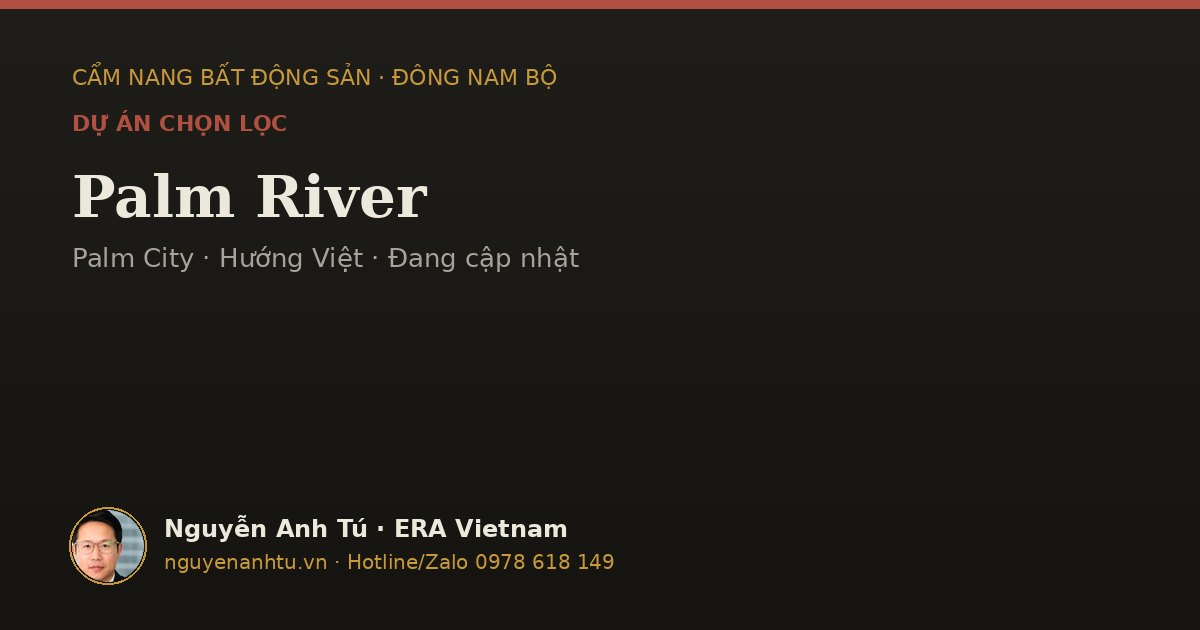
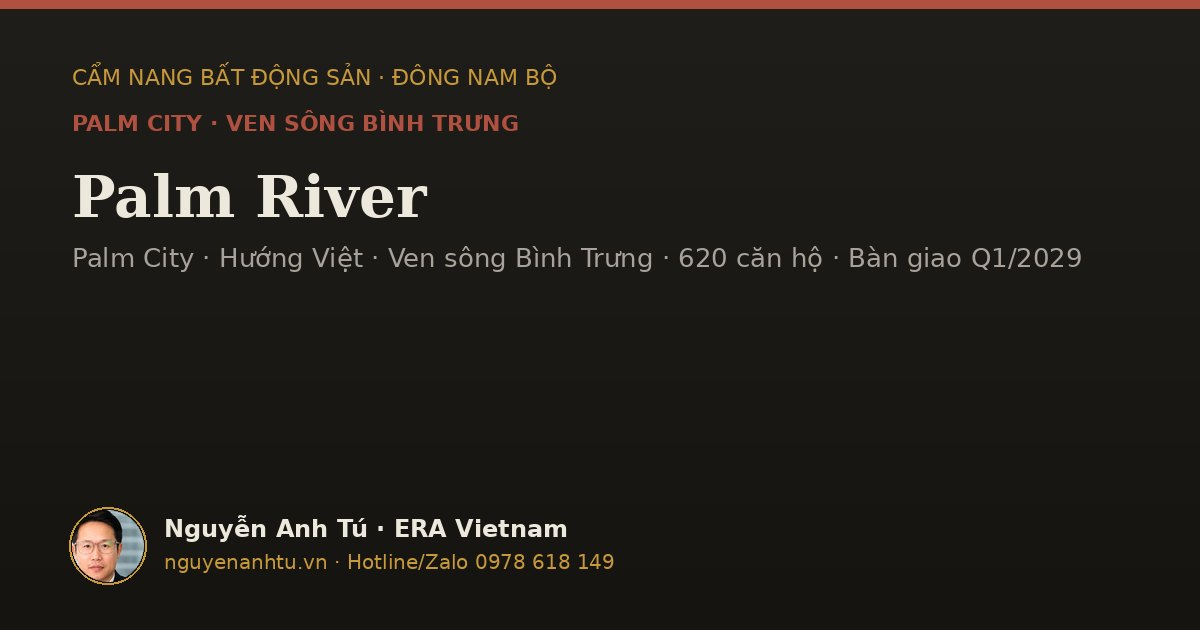
up

Changed region(s): [[0.3083, 0.3921, 0.925, 0.4222], [0.0617, 0.181, 0.4317, 0.2111]]

diff --git a/content/articles/palm-river.html b/content/articles/palm-river.html
@@ -1,1 +1,158 @@
-<h1 class='p-h1'>🌴 Palm River<br><em style='font-size:.52em;color:#b05040;font-style:italic;font-weight:500'>— Palm City · Hướng Việt · Đang cập nhật</em></h1><div class='p-call' style='margin-top:32px'><div class='p-call-lbl'>🔄 Nội dung đang được cập nhật</div><p>Phân tích chi tiết về <strong>Palm River</strong> đang được biên soạn và sẽ có trong phiên bản tiếp theo.</p><p style='margin-top:12px'>Liên hệ để được tư vấn trực tiếp về dự án này:<br><strong style='color:#b05040'>0978 618 149</strong> — Nguyễn Anh Tú · ERA Vietnam</p></div>
+<h1 class="p-h1">Palm River<br><em style="font-size:.52em;color:#b05040;font-style:italic;font-weight:500">— Phân khu căn hộ ven sông đầu tiên của giai đoạn phát triển mới Palm City</em></h1>
+
+<p class="p-lead">Palm River là phân khu căn hộ ven sông của <strong style="color:#e8d9c4">Palm City</strong> do Hướng Việt Properties phát triển tại phường Bình Trưng, TP.HCM: <strong style="color:#e8d9c4">4 tháp 36 tầng</strong> trên khu đất khoảng 1,89 ha, khởi công ngày 16/6/2026 và dự kiến bàn giao quý 1/2029.</p>
+
+<!-- ═════ 1. TỔNG QUAN ═════ -->
+<div style="display:flex;align-items:center;gap:10px;margin:34px 0 6px"><span style="font-family:'Cormorant Garamond',serif;font-size:34px;font-weight:700;color:rgba(176,80,64,.55);line-height:1">01</span><span style="font-size:9.5px;text-transform:uppercase;letter-spacing:2.2px;color:var(--muted);font-weight:600">Tổng quan dự án</span></div>
+
+<p class="p-h2">📍 Vị Trí</p>
+<p class="p-p">Palm River thuộc <strong>khu đô thị Nam Rạch Chiếc (Palm City)</strong>, phường Bình Trưng, TP.HCM (khu vực Quận 2 cũ). Khu đô thị nằm bên <strong>sông Giồng Ông Tố</strong>, có mặt tiền đường Song Hành của cao tốc TP.HCM – Long Thành – Dầu Giây và liền kề trục An Phú – Thủ Thiêm; riêng Palm River giáp sông ba mặt. Theo tài liệu chủ đầu tư, nhà ga Bình Trưng của tuyến metro Thủ Thiêm – Long Thành nằm ngay trước dự án.</p>
+<p class="p-p" style="margin:14px 0 0"><strong>Thời gian di chuyển</strong></p>
+<ul class="p-travel">
+  <li><span>Ga Bình Trưng (tuyến Thủ Thiêm – Long Thành)<small>Tuyến dự kiến hoàn thành năm 2030 theo tài liệu chủ đầu tư</small></span><b>Ngay trước dự án</b></li>
+  <li><span>Ga Metro Thủ Thiêm<small>Theo tài liệu chủ đầu tư</small></span><b>~5 phút</b></li>
+  <li><span>Nút giao An Phú · cao tốc TP.HCM – Long Thành – Dầu Giây<small>Theo tài liệu chủ đầu tư</small></span><b>~3 phút</b></li>
+  <li><span>Thủ Thiêm<small>Theo tài liệu chủ đầu tư</small></span><b>~10 phút</b></li>
+  <li><span>Trung tâm Quận 1 (cũ) · cầu Cát Lái<small>Theo tài liệu chủ đầu tư</small></span><b>~12 phút</b></li>
+  <li><span>Sân bay Long Thành<small>Theo tài liệu chủ đầu tư</small></span><b>~30 phút</b></li>
+  <li><span>Trường Quốc tế Mỹ TAS<small>Theo tài liệu chủ đầu tư</small></span><b>~3 phút</b></li>
+  <li><span>Trường AIS, VAS<small>Theo tài liệu chủ đầu tư</small></span><b>7–10 phút</b></li>
+  <li><span>Khu thể thao Rạch Chiếc<small>Theo tài liệu chủ đầu tư</small></span><b>~5 phút</b></li>
+</ul>
+<p style="font-size:11px;color:var(--muted);font-style:italic;margin:-4px 0 10px">Thời gian di chuyển mang tính tham khảo, theo bản đồ kết nối trong tài liệu chủ đầu tư.</p>
+
+<p class="p-h2">📐 Quy Mô</p>
+<div style="overflow-x:auto;margin:14px 0;border:1px solid var(--border-2);border-radius:9px">
+<table style="width:100%;border-collapse:collapse;font-size:12.5px;min-width:420px">
+  <tr style="background:rgba(176,80,64,.08)"><td style="padding:10px 14px;color:var(--muted);width:42%;border-bottom:1px solid var(--border-2)">Tên theo hồ sơ</td><td style="padding:10px 14px;color:var(--text);border-bottom:1px solid var(--border-2)">Khu nhà ở chung cư cao tầng kết hợp thương mại – dịch vụ 3 (CC3), thuộc Dự án Khu Trung tâm Nam Rạch Chiếc</td></tr>
+  <tr><td style="padding:10px 14px;color:var(--muted);border-bottom:1px solid var(--border-2)">Diện tích khu đất</td><td style="padding:10px 14px;color:var(--text);border-bottom:1px solid var(--border-2)"><strong>Khoảng 1,89 ha</strong></td></tr>
+  <tr style="background:rgba(255,255,255,.02)"><td style="padding:10px 14px;color:var(--muted);border-bottom:1px solid var(--border-2)">Loại hình phát triển</td><td style="padding:10px 14px;color:var(--text);border-bottom:1px solid var(--border-2)">Căn hộ · shophouse khối đế · officetel</td></tr>
+  <tr><td style="padding:10px 14px;color:var(--muted);border-bottom:1px solid var(--border-2)">Mật độ xây dựng</td><td style="padding:10px 14px;color:var(--text);border-bottom:1px solid var(--border-2)">39,5%</td></tr>
+  <tr style="background:rgba(255,255,255,.02)"><td style="padding:10px 14px;color:var(--muted);border-bottom:1px solid var(--border-2)">Hệ số sử dụng đất (FAR)</td><td style="padding:10px 14px;color:var(--text);border-bottom:1px solid var(--border-2)">Đang cập nhật</td></tr>
+  <tr><td style="padding:10px 14px;color:var(--muted);border-bottom:1px solid var(--border-2)">Số tháp · chiều cao</td><td style="padding:10px 14px;color:var(--text);border-bottom:1px solid var(--border-2)"><strong>4 tháp (T1–T4)</strong> · 36 tầng nổi, 2 tầng hầm · cao 149,45 m</td></tr>
+  <tr style="background:rgba(255,255,255,.02)"><td style="padding:10px 14px;color:var(--muted);border-bottom:1px solid var(--border-2)">Số lượng sản phẩm</td><td style="padding:10px 14px;color:var(--text);border-bottom:1px solid var(--border-2)"><strong>620 căn hộ</strong> · 13 shophouse khối đế · 71 officetel</td></tr>
+  <tr><td style="padding:10px 14px;color:var(--muted);border-bottom:1px solid var(--border-2)">Số căn/sàn</td><td style="padding:10px 14px;color:var(--text);border-bottom:1px solid var(--border-2)">Tháp T1: 4 căn · tháp T2, T3, T4: 6 căn</td></tr>
+  <tr style="background:rgba(255,255,255,.02)"><td style="padding:10px 14px;color:var(--muted);border-bottom:1px solid var(--border-2)">Cơ cấu căn hộ</td><td style="padding:10px 14px;color:var(--text);border-bottom:1px solid var(--border-2)">Studio · 1PN · 2PN · 3PN · Duplex · Penthouse</td></tr>
+  <tr><td style="padding:10px 14px;color:var(--muted);border-bottom:1px solid var(--border-2)">Bãi đỗ xe</td><td style="padding:10px 14px;color:var(--text);border-bottom:1px solid var(--border-2)">2 tầng hầm: 633 chỗ ô tô, 1.240 chỗ xe máy · mỗi căn hộ có 1 chỗ ô tô</td></tr>
+  <tr style="background:rgba(255,255,255,.02)"><td style="padding:10px 14px;color:var(--muted)">Hình thức sở hữu</td><td style="padding:10px 14px;color:var(--text)">Sở hữu lâu dài (áp dụng cho khách hàng quốc tịch Việt Nam)</td></tr>
+</table>
+</div>
+<p style="font-size:11px;color:var(--muted);font-style:italic;margin:-4px 0 10px">Thông số theo tài liệu dự án cập nhật tháng 9/2026, đối chiếu thông cáo báo chí của Hướng Việt Properties (13/8/2026) về diện tích, số tháp, số tầng và mật độ.</p>
+
+<p class="p-h2">🏢 Nhà Phát Triển</p>
+<div class="p-grid">
+  <div class="p-card"><strong>Chủ đầu tư</strong><p>Công ty TNHH Nam Rạch Chiếc</p></div>
+  <div class="p-card"><strong>Nhà phát triển</strong><p>Hướng Việt Properties (thuộc Hướng Việt Holdings)</p></div>
+  <div class="p-card"><strong>Thiết kế · Tư vấn</strong><p>Kiến trúc DPA (Singapore) · Cảnh quan LJ-Group · Nội thất Dark Horse · Thiết kế theo tiêu chuẩn công trình xanh EDGE</p></div>
+  <div class="p-card"><strong>Tổng thầu</strong><p>Đang cập nhật</p></div>
+  <div class="p-card"><strong>Website chủ đầu tư</strong><p>Đang cập nhật</p></div>
+</div>
+
+<p class="p-h2">🗓 Giai Đoạn Triển Khai</p>
+<div class="p-tl">
+  <div class="p-tl-row"><div class="p-tl-dot">✓</div><div><div class="p-tl-yr">16/6/2026</div><div class="p-tl-ti">Khởi công</div><div class="p-tl-ds">Lễ khởi động phân khu Palm River, mở đầu giai đoạn phát triển mới của Palm City.</div></div></div>
+  <div class="p-tl-row"><div class="p-tl-dot">1</div><div><div class="p-tl-yr">Năm 2026</div><div class="p-tl-ti">Ra mắt thị trường</div><div class="p-tl-ds">Theo báo chí, dự kiến đưa ra thị trường trong năm 2026. Chính sách bán hàng đang cập nhật.</div></div></div>
+  <div class="p-tl-row"><div class="p-tl-dot">⌂</div><div><div class="p-tl-yr">Quý 1/2029</div><div class="p-tl-ti">Bàn giao dự kiến</div><div class="p-tl-ds">Theo tài liệu dự án và thông cáo của Hướng Việt Properties.</div></div></div>
+</div>
+
+<!-- ═════ 2. CHI TIẾT ═════ -->
+<div style="display:flex;align-items:center;gap:10px;margin:40px 0 6px"><span style="font-family:'Cormorant Garamond',serif;font-size:34px;font-weight:700;color:rgba(176,80,64,.55);line-height:1">02</span><span style="font-size:9.5px;text-transform:uppercase;letter-spacing:2.2px;color:var(--muted);font-weight:600">Chi tiết dự án</span></div>
+
+<p class="p-h2">🎁 Giá Bán &amp; Chính Sách</p>
+<div class="p-call"><div class="p-call-lbl">🔄 Nội dung đang được cập nhật</div><p>Giá bán, chính sách thanh toán và ưu đãi: tài liệu hiện có chưa công bố. Để nhận bảng tính dòng tiền và rổ hàng mới nhất, liên hệ <strong style="color:#b05040">0978 618 149</strong> — Nguyễn Anh Tú · ERA Vietnam.</p></div>
+
+<p class="p-h2">🏠 Loại Hình Sản Phẩm</p>
+<p class="p-p">Từ Studio đến Penthouse, kèm 13 shophouse khối đế và 71 officetel. Studio có căn từ 34,86 m²; Duplex có <strong>42 căn</strong> và Penthouse có <strong>8 căn</strong>, diện tích đến hơn 300 m².</p>
+<div style="overflow-x:auto;margin:14px 0;border:1px solid var(--border-2);border-radius:9px">
+<table style="width:100%;border-collapse:collapse;font-size:12.5px;min-width:420px;text-align:left">
+  <tr style="background:rgba(176,80,64,.12)"><th style="padding:10px 14px;font-size:9.5px;text-transform:uppercase;letter-spacing:1.4px;color:#d08470;font-weight:700">Loại hình</th><th style="padding:10px 14px;font-size:9.5px;text-transform:uppercase;letter-spacing:1.4px;color:#d08470;font-weight:700">Tim tường GSA (m²)</th><th style="padding:10px 14px;font-size:9.5px;text-transform:uppercase;letter-spacing:1.4px;color:#d08470;font-weight:700">Thông thủy NSA (m²)</th></tr>
+  <tr><td style="padding:9px 14px;color:var(--text);border-top:1px solid var(--border-2)">Studio</td><td style="padding:9px 14px;color:var(--text-2);border-top:1px solid var(--border-2)">41,3 (điển hình)</td><td style="padding:9px 14px;color:var(--text-2);border-top:1px solid var(--border-2)">37,3 (điển hình)</td></tr>
+  <tr style="background:rgba(255,255,255,.02)"><td style="padding:9px 14px;color:var(--text);border-top:1px solid var(--border-2)">1PN</td><td style="padding:9px 14px;color:var(--text-2);border-top:1px solid var(--border-2)">65,9</td><td style="padding:9px 14px;color:var(--text-2);border-top:1px solid var(--border-2)">60,2</td></tr>
+  <tr><td style="padding:9px 14px;color:var(--text);border-top:1px solid var(--border-2)">2PN góc</td><td style="padding:9px 14px;color:var(--text-2);border-top:1px solid var(--border-2)">84,9</td><td style="padding:9px 14px;color:var(--text-2);border-top:1px solid var(--border-2)">76,3</td></tr>
+  <tr style="background:rgba(255,255,255,.02)"><td style="padding:9px 14px;color:var(--text);border-top:1px solid var(--border-2)">2PN thường</td><td style="padding:9px 14px;color:var(--text-2);border-top:1px solid var(--border-2)">85,9</td><td style="padding:9px 14px;color:var(--text-2);border-top:1px solid var(--border-2)">76,6 – 77,3</td></tr>
+  <tr><td style="padding:9px 14px;color:var(--text);border-top:1px solid var(--border-2)">2PN đặc biệt</td><td style="padding:9px 14px;color:var(--text-2);border-top:1px solid var(--border-2)">120,2 – 121,9</td><td style="padding:9px 14px;color:var(--text-2);border-top:1px solid var(--border-2)">110,6 – 111,3</td></tr>
+  <tr style="background:rgba(255,255,255,.02)"><td style="padding:9px 14px;color:var(--text);border-top:1px solid var(--border-2)">3PN góc</td><td style="padding:9px 14px;color:var(--text-2);border-top:1px solid var(--border-2)">125,3</td><td style="padding:9px 14px;color:var(--text-2);border-top:1px solid var(--border-2)">115,3 – 116</td></tr>
+  <tr><td style="padding:9px 14px;color:var(--text);border-top:1px solid var(--border-2)">3PN thường</td><td style="padding:9px 14px;color:var(--text-2);border-top:1px solid var(--border-2)">126,1</td><td style="padding:9px 14px;color:var(--text-2);border-top:1px solid var(--border-2)">115,5 – 116,2</td></tr>
+  <tr style="background:rgba(255,255,255,.02)"><td style="padding:9px 14px;color:var(--text);border-top:1px solid var(--border-2)">3PN đặc biệt</td><td style="padding:9px 14px;color:var(--text-2);border-top:1px solid var(--border-2)">157</td><td style="padding:9px 14px;color:var(--text-2);border-top:1px solid var(--border-2)">143,7 – 144,8</td></tr>
+  <tr><td style="padding:9px 14px;color:var(--text);border-top:1px solid var(--border-2)">Duplex · Penthouse</td><td style="padding:9px 14px;color:var(--text-2);border-top:1px solid var(--border-2)">Đến hơn 300</td><td style="padding:9px 14px;color:var(--text-2);border-top:1px solid var(--border-2)">Đang cập nhật</td></tr>
+</table>
+</div>
+<p style="font-size:11px;color:var(--muted);font-style:italic;margin:-4px 0 10px">Diện tích tim tường (GSA) và thông thủy (NSA) theo mặt bằng chủ đầu tư công bố, mang tính tham khảo. Số căn Duplex, Penthouse theo bảng Hỏi – Đáp của chủ đầu tư.</p>
+
+<p class="p-h2">🎨 Phối Cảnh — Bốn Tháp Bên Sông Giồng Ông Tố</p>
+<p class="p-p">Bốn tháp bố trí dọc sông Giồng Ông Tố, giáp sông ba mặt. Theo phối cảnh của chủ đầu tư, mặt đứng các tháp <strong>uốn theo dòng chảy</strong>, có cầu nối trên cao và hàng cọ; chân tháp mở ra công viên ven sông và bến thuyền. Thông cáo báo chí mô tả ý tưởng kiến trúc lấy cảm hứng từ lá cọ và dòng nước, sắp xếp tháp để tối ưu tầm nhìn sông, ánh sáng và thông gió tự nhiên.</p>
+<p style="font-size:11px;color:var(--muted);font-style:italic;margin:-4px 0 10px">Hình ảnh phối cảnh của chủ đầu tư mang tính minh họa, có thể điều chỉnh.</p>
+
+<p class="p-h2">🌿 Tiện Ích Nội Khu — 68 Tiện Ích Trên Ba Tầng</p>
+<p class="p-p">Theo brochure chủ đầu tư, hệ tiện ích trải trên <strong>tầng 1</strong> (20 tiện ích ngoài trời, 9 trong nhà), <strong>tầng 2</strong> (7 tiện ích) và <strong>tầng 20</strong> (32 tiện ích). Cư dân của cả bốn tháp đều được sử dụng. Dự án có nhà trẻ 1.404,52 m².</p>
+<div class="p-grid">
+  <div class="p-card"><strong>🏊 Hồ bơi &amp; trị liệu</strong><p>Hồ bơi dài 70 m (tầng 1), hồ bơi trẻ em, hồ bơi vô cực, Sky Onsen tắm khoáng kiểu Nhật (tầng 20), hồ trị liệu nóng – lạnh, bể sục Jacuzzi, Private Spa, phòng massage trị liệu.</p></div>
+  <div class="p-card"><strong>💪 Thể thao &amp; sức khỏe</strong><p>Sky Yoga Deck, Sky Gym &amp; Pilates, sàn tập yoga, sân pickleball, phòng golf mô phỏng (tầng 20, cạnh Sky Gym).</p></div>
+  <div class="p-card"><strong>👨👩👧 Gia đình &amp; cộng đồng</strong><p>Kids Club, sân chơi trẻ em, sân chơi thú cưng, nhà trẻ, clubhouse, phòng chiếu phim cư dân (tầng 1), khán đài.</p></div>
+  <div class="p-card"><strong>🧘 Thư giãn &amp; cảnh quan</strong><p>Lounge vườn thác nước, lounge sân trũng, lounge mặt nước, chòi nướng BBQ, bungalow thư giãn ngoài trời, đài ngắm cảnh, tiểu cảnh nước, đường dạo ven sông, phố thương mại.</p></div>
+</div>
+<p style="font-size:11px;color:var(--muted);font-style:italic;margin:-4px 0 10px">Danh mục theo brochure chủ đầu tư, mang tính minh họa. Danh mục chi tiết theo từng tầng đang cập nhật.</p>
+
+<p class="p-h2">🌐 Hệ Sinh Thái Ngoại Khu &amp; Vùng Chức Năng</p>
+<div class="p-call" style="background:rgba(176,80,64,.06);border-color:rgba(176,80,64,.25)"><div class="p-call-lbl" style="color:#d08470">Palm River nằm trong khu đô thị Palm City</div><p>Palm City rộng khoảng 30,6 ha, quy hoạch nhà ở, thương mại – dịch vụ, trường quốc tế, bệnh viện quốc tế và tiện ích cộng đồng, với công viên ven sông gần 3 km. Palm Residence, Palm Height, hệ thống trường quốc tế và công viên ven sông đã đi vào vận hành. Thông cáo của chủ đầu tư nêu toàn Palm City có hơn 100 tiện ích mà cư dân Palm River cùng sử dụng.</p></div>
+
+<!-- ═════ 3. VÌ SAO TÔI CHỌN ═════ -->
+<div style="display:flex;align-items:center;gap:10px;margin:40px 0 6px"><span style="font-family:'Cormorant Garamond',serif;font-size:34px;font-weight:700;color:rgba(176,80,64,.55);line-height:1">03</span><span style="font-size:9.5px;text-transform:uppercase;letter-spacing:2.2px;color:var(--muted);font-weight:600">Góc nhìn nhà tư vấn</span></div>
+<p class="p-h2">💬 Vì Sao Tôi Chọn Palm River?</p>
+<div class="p-call"><div class="p-call-lbl">🔄 Nội dung đang được cập nhật</div><p>Góc nhìn dành cho cư dân và nhà đầu tư sẽ được bổ sung.</p></div>
+
+<!-- ═════ 4. SWOT + ĐIỂM ═════ -->
+<div style="display:flex;align-items:center;gap:10px;margin:40px 0 6px"><span style="font-family:'Cormorant Garamond',serif;font-size:34px;font-weight:700;color:rgba(176,80,64,.55);line-height:1">04</span><span style="font-size:9.5px;text-transform:uppercase;letter-spacing:2.2px;color:var(--muted);font-weight:600">Phân tích &amp; đánh giá</span></div>
+<p class="p-h2">📊 Phân Tích SWOT &amp; Thang Điểm 1–5</p>
+<div class="p-call"><div class="p-call-lbl">🔄 Nội dung đang được cập nhật</div><p>Phân tích SWOT và thang điểm đánh giá 1–5 của Palm River sẽ được bổ sung.</p></div>
+
+<p class="p-h2">❓ Hỏi &amp; Đáp Về Palm River</p>
+<div class="faq-list" style="--pc:#b05040">
+<div class="faq-item" onclick="toggleFaq(this)">
+  <div class="faq-q"><span class="faq-num">01</span>Palm River là dự án của ai, nằm ở đâu?<span class="faq-arr">+</span></div>
+  <div class="faq-a">
+    <p>Palm River là phân khu căn hộ ven sông của Palm City, tại phường Bình Trưng, TP.HCM (khu vực Quận 2 cũ). Chủ đầu tư là Công ty TNHH Nam Rạch Chiếc; Hướng Việt Properties là nhà phát triển.</p>
+  </div>
+</div>
+<div class="faq-item" onclick="toggleFaq(this)">
+  <div class="faq-q"><span class="faq-num">02</span>Palm River có bao nhiêu tháp, bao nhiêu căn?<span class="faq-arr">+</span></div>
+  <div class="faq-a">
+    <p><strong>4 tháp</strong> 36 tầng nổi và 2 tầng hầm trên khu đất khoảng 1,89 ha, gồm <strong>620 căn hộ</strong>, 13 shophouse khối đế và 71 officetel theo tài liệu dự án. Mật độ xây dựng 39,5%.</p>
+  </div>
+</div>
+<div class="faq-item" onclick="toggleFaq(this)">
+  <div class="faq-q"><span class="faq-num">03</span>Khi nào khởi công và bàn giao Palm River?<span class="faq-arr">+</span></div>
+  <div class="faq-a">
+    <p>Palm River khởi công ngày <strong>16/6/2026</strong> và dự kiến bàn giao vào <strong>quý 1/2029</strong>.</p>
+  </div>
+</div>
+<div class="faq-item" onclick="toggleFaq(this)">
+  <div class="faq-q"><span class="faq-num">04</span>Giá Palm River bao nhiêu?<span class="faq-arr">+</span></div>
+  <div class="faq-a">
+    <p>Tài liệu hiện có chưa công bố giá bán và chính sách thanh toán. Để nhận bảng tính dòng tiền và rổ hàng mới nhất, liên hệ Nguyễn Anh Tú · ERA Vietnam theo số 0978 618 149.</p>
+  </div>
+</div>
+<div class="faq-item" onclick="toggleFaq(this)">
+  <div class="faq-q"><span class="faq-num">05</span>Palm River có những loại căn hộ nào?<span class="faq-arr">+</span></div>
+  <div class="faq-a">
+    <p>Studio, 1PN, 2PN, 3PN, Duplex và Penthouse: Studio từ 34,86 m², 3PN đặc biệt đến 157 m² (tim tường), Duplex và Penthouse đến hơn 300 m². Shophouse khối đế và officetel nằm trong cùng dự án.</p>
+  </div>
+</div>
+<div class="faq-item" onclick="toggleFaq(this)">
+  <div class="faq-q"><span class="faq-num">06</span>Palm River có gần metro không?<span class="faq-arr">+</span></div>
+  <div class="faq-a">
+    <p>Theo tài liệu chủ đầu tư, ga Bình Trưng của tuyến metro Thủ Thiêm – Long Thành nằm ngay trước dự án, tuyến dự kiến hoàn thành năm 2030. Đây là mốc của chủ đầu tư; tiến độ thực tế của tuyến xem tại <a href="/cam-nang/muc-tieu-metro-hcm-2030/" class="xl-i"><strong>Mục tiêu Metro HCM 2030</strong></a>.</p>
+  </div>
+</div>
+<div class="faq-item" onclick="toggleFaq(this)">
+  <div class="faq-q"><span class="faq-num">07</span>Sở hữu căn hộ Palm River có thời hạn không?<span class="faq-arr">+</span></div>
+  <div class="faq-a">
+    <p>Theo tài liệu dự án, hình thức sở hữu lâu dài, áp dụng cho khách hàng quốc tịch Việt Nam. Thông tin chính thức căn cứ trên hợp đồng mua bán.</p>
+  </div>
+</div>
+</div>
+
+<div class="p-call" style="margin-top:26px"><div class="p-call-lbl">🔗 Bối cảnh vùng</div><p>Xem <a href="/cam-nang/vung-rach-chiec-truong-tho/" class="xl-i"><strong style="cursor:pointer;color:#c8993a">Rạch Chiếc · Trường Thọ →</strong></a> để hiểu vai trò của vùng và các dự án khác trong khu vực.</p></div>
+<div class="project-hub"><a href="/cam-nang/palm-city/" class="xl-b proj-row"><div class="proj-row-ico">🌴</div><div class="proj-row-name">Palm City</div><div class="proj-row-tag">Khu đô thị · 3 phân khu</div><div class="proj-row-arrow">→</div></a></div>
+
+<p style="margin-top:22px;font-size:12px;color:var(--muted);text-align:center;border-top:1px solid var(--border);padding-top:14px">⚠ Thông tin theo tài liệu dự án cập nhật 9/2026, đối chiếu báo chí và thông cáo của Hướng Việt Properties. Hình ảnh mang tính minh họa; chính sách, giá và tiến độ có thể thay đổi theo công bố chính thức của chủ đầu tư.<br>Liên hệ tư vấn: <strong style="color:#b05040">0978 618 149</strong> — Nguyễn Anh Tú · ERA Vietnam</p>

diff --git a/CHANGELOG.md b/CHANGELOG.md
@@ -2,6 +2,14 @@
 
 Quy ước: `2.x.0` = chức năng mới · `2.x.y` = sửa lỗi · Thêm/sửa bài ghi ở mục **Nội dung**, không tăng version.
 
+## 2026-10-12 — Nội dung: Palm River — dựng trang dự án từ landing ERA (chưa có ảnh, chưa có SWOT)
+- Bài `palm-river` (phân khu của Palm City) viết lại theo khung trang dự án 01–04: Tổng quan (vị trí + thời gian di chuyển, quy mô, nhà phát triển, giai đoạn) · Chi tiết (giá & chính sách, loại hình, phối cảnh, tiện ích, ngoại khu) · Góc nhìn · Phân tích & đánh giá + 7 câu Hỏi & Đáp. Thêm dải số liệu `facts` (620 căn hộ · 36 tầng · 1,89 ha · Q1/2029), cập nhật tiêu đề SEO, mô tả, từ khóa, tag, bài liên quan; tạo lại ảnh OG.
+- Nguồn: landing ERA (cập nhật 9/2026) đối chiếu báo chí: Tuổi Trẻ/KTSG (16/6/2026), Thị trường Tài chính Tiền tệ (16/6/2026), thông cáo Hướng Việt Properties đăng VietnamPlus (13/8/2026). Số khớp giữa các nguồn: 4 tháp, 36 tầng, 1,89–1,9 ha, mật độ ~40%, khởi công 16/6/2026, bàn giao dự kiến Q1/2029.
+- Số liệu lệch giữa các nguồn, đã ghi theo tài liệu dự án và cần Tú xác nhận: tổng diện tích Palm City 30,6 ha (ERA, thông cáo) so với 30,2 ha (một số báo); tiện ích nội khu 68 (ERA, brochure CĐT) so với "hơn 40" (thông cáo 13/8); ERA ghi "2,7 km mặt tiền sông" cho khu đất 1,89 ha, không ghép được với các nguồn khác nên không đưa vào.
+- Thời gian di chuyển và mốc metro Thủ Thiêm – Long Thành 2030 là số của tài liệu chủ đầu tư, đã ghi rõ nguồn; trang dẫn tới `muc-tieu-metro-hcm-2030` để đối chiếu tiến độ thực tế.
+- Phần chưa có: giá và chính sách (landing không công bố), clip giới thiệu, bảng tính, tham quan 360°, website chủ đầu tư, tổng thầu, FAR, toàn bộ ảnh, "Vì sao tôi chọn", SWOT và thang điểm 1–5. Các mục này để khối "Nội dung đang được cập nhật" hoặc "Đang cập nhật".
+- Trạng thái giữ `stub` (noindex) cho tới khi Tú bổ sung phần phân tích; chưa đổi `categories.json`, `pages.json` hay bài `palm-city`. Không đổi giao diện, CSS/JS hay version.
+
 ## 2026-10-12 — Nội dung: Norton Park — thay bảng tính phương thức thanh toán bằng bản mới của Tú
 - `assets/tools/norton-park-bang-tinh/index.html` thay bằng bản mới (đủ tầng 1–19, mặt bằng theo nhóm tầng, mã căn dạng Tháp.Tầng.Căn). Giữ noindex và canonical về bài.
 - Ảnh nhúng Base64 trong bản gốc được tách thành file WebP (mặt bằng 7 nhóm tầng + 9 layout), bỏ các ảnh của bản cũ không còn dùng.
